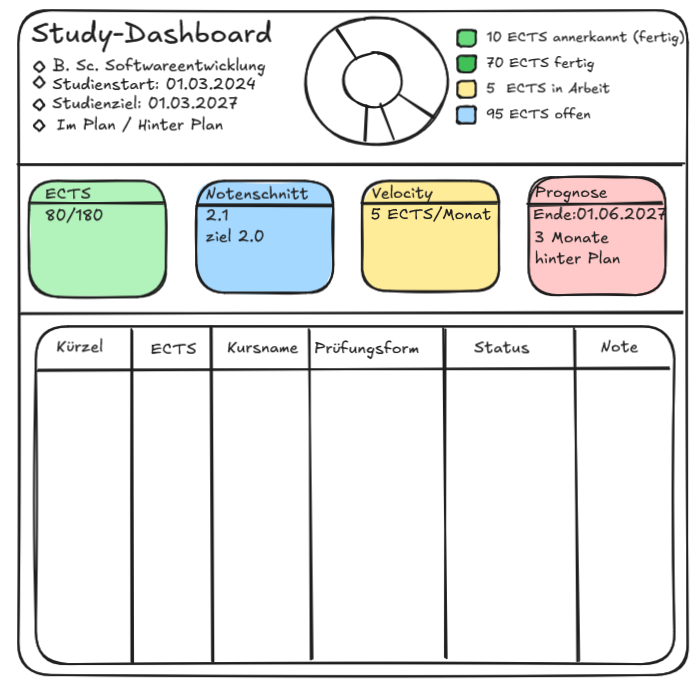
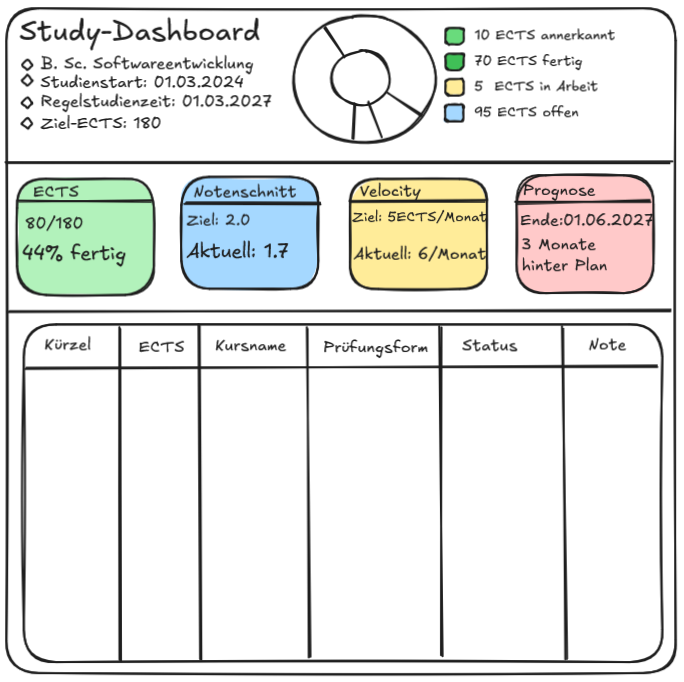
feat: wireframe update

Changed region(s): [[0.0, 0.0, 1.0, 1.0]]

diff --git a/src/gui_test.py b/src/gui_test.py
@@ -43,6 +43,24 @@ module = [
 ]
 
 
+FARBEN = {
+    "anerkannt": "#7ee08b",
+    "fertig": "#34c969",
+    "in Arbeit": "#ffe680",
+    "offen": "#a9d8f5",
+    "prognose": "#ffc3c7",
+    "rahmen": "#222222",
+    "hintergrund": "#fbfbf8",
+}
+
+ZIEL_ECTS = 180
+ZIEL_NOTENSCHNITT = "2.0"
+AKTUELLER_NOTENSCHNITT = "1.7"
+ZIEL_VELOCITY = 5
+AKTUELLE_VELOCITY = 6
+PROGNOSE_ENDE = "01.06.2027"
+
+
 def berechne_ects(status):
     summe = 0
 
@@ -53,33 +71,168 @@ def berechne_ects(status):
     return summe
 
 
-def zeichne_donut(canvas, werte, prozent_fertig):
-    gesamt = 0
+def berechne_kennzahlen():
+    ects_anerkannt = berechne_ects("anerkannt")
+    ects_fertig = berechne_ects("fertig")
+    ects_in_arbeit = berechne_ects("in Arbeit")
+    ects_offen = berechne_ects("offen")
+    ects_abgeschlossen = ects_anerkannt + ects_fertig
+    prozent_fertig = round(ects_abgeschlossen / ZIEL_ECTS * 100)
 
-    for wert in werte:
-        gesamt = gesamt + wert[1]
+    return {
+        "anerkannt": ects_anerkannt,
+        "fertig": ects_fertig,
+        "in Arbeit": ects_in_arbeit,
+        "offen": ects_offen,
+        "abgeschlossen": ects_abgeschlossen,
+        "prozent_fertig": prozent_fertig,
+    }
 
-    start_winkel = 90
+
+def zeichne_donut(canvas, werte):
+    gesamt = sum(wert[1] for wert in werte)
+    start_winkel = 120
+
+    canvas.delete("all")
 
     for name, ects, farbe in werte:
+        if gesamt == 0:
+            continue
+
         winkel = 360 * ects / gesamt
         canvas.create_arc(
-            10,
-            10,
-            170,
-            170,
+            8,
+            8,
+            148,
+            148,
             start=start_winkel,
             extent=winkel,
             fill=farbe,
-            outline="white",
+            outline=FARBEN["rahmen"],
             width=2,
         )
         start_winkel = start_winkel + winkel
 
-    # Innerer Kreis macht aus dem Kuchendiagramm ein Donutdiagramm.
-    canvas.create_oval(62, 62, 118, 118, fill="white", outline="black", width=2)
-    canvas.create_text(90, 84, text=str(prozent_fertig) + "%", font=("Arial", 14, "bold"))
-    canvas.create_text(90, 104, text="fertig", font=("Arial", 9))
+    canvas.create_oval(54, 54, 102, 102, fill=FARBEN["hintergrund"], outline=FARBEN["rahmen"], width=2)
+
+
+def erstelle_kopfbereich(parent, kennzahlen):
+    kopfbereich = tk.Frame(parent, bg=FARBEN["hintergrund"], highlightthickness=2, highlightbackground=FARBEN["rahmen"])
+    kopfbereich.pack(fill="x")
+
+    info_bereich = tk.Frame(kopfbereich, bg=FARBEN["hintergrund"], padx=14, pady=10)
+    info_bereich.grid(row=0, column=0, sticky="nsew")
+
+    tk.Label(info_bereich, text="Study-Dashboard", bg=FARBEN["hintergrund"], font=("Segoe UI", 23, "bold")).pack(anchor="w")
+
+    infos = [
+        "B. Sc. Softwareentwicklung",
+        "Studienstart: 01.03.2024",
+        "Regelstudienzeit: 01.03.2027",
+        "Ziel-ECTS: 180",
+    ]
+
+    for text in infos:
+        tk.Label(info_bereich, text="<> " + text, bg=FARBEN["hintergrund"], font=("Segoe UI", 11)).pack(anchor="w")
+
+    diagramm_bereich = tk.Frame(kopfbereich, bg=FARBEN["hintergrund"], padx=18, pady=8)
+    diagramm_bereich.grid(row=0, column=1, sticky="e")
+
+    status_werte = [
+        ("anerkannt", kennzahlen["anerkannt"], FARBEN["anerkannt"]),
+        ("fertig", kennzahlen["fertig"], FARBEN["fertig"]),
+        ("in Arbeit", kennzahlen["in Arbeit"], FARBEN["in Arbeit"]),
+        ("offen", kennzahlen["offen"], FARBEN["offen"]),
+    ]
+
+    donut = tk.Canvas(diagramm_bereich, width=156, height=156, bg=FARBEN["hintergrund"], highlightthickness=0)
+    donut.grid(row=0, column=0, padx=(0, 20))
+    zeichne_donut(donut, status_werte)
+
+    legende = tk.Frame(diagramm_bereich, bg=FARBEN["hintergrund"])
+    legende.grid(row=0, column=1, sticky="w")
+
+    for zeile, status_wert in enumerate(status_werte):
+        name, ects, farbe = status_wert
+        farbfeld = tk.Label(legende, text="  ", bg=farbe, highlightthickness=1, highlightbackground=FARBEN["rahmen"])
+        farbfeld.grid(row=zeile, column=0, padx=(0, 8), pady=4)
+        tk.Label(legende, text=f"{ects} ECTS {name}", bg=FARBEN["hintergrund"], font=("Segoe UI", 10)).grid(row=zeile, column=1, sticky="w")
+
+    kopfbereich.columnconfigure(0, weight=1)
+
+
+def erstelle_kennzahl(parent, spalte, titel, zeilen, farbe):
+    kachel = tk.Frame(parent, bg=farbe, highlightthickness=2, highlightbackground=FARBEN["rahmen"])
+    kachel.grid(row=0, column=spalte, sticky="nsew", padx=12)
+
+    titel_label = tk.Label(
+        kachel,
+        text=titel,
+        bg=farbe,
+        anchor="w",
+        padx=9,
+        pady=3,
+        font=("Segoe UI", 11, "bold"),
+        highlightthickness=1,
+        highlightbackground=FARBEN["rahmen"],
+    )
+    titel_label.pack(fill="x")
+
+    inhalt = tk.Frame(kachel, bg=farbe, padx=10, pady=10)
+    inhalt.pack(fill="both", expand=True)
+
+    for text, schrift in zeilen:
+        tk.Label(inhalt, text=text, bg=farbe, anchor="w", justify="left", font=schrift).pack(anchor="w")
+
+
+def erstelle_kennzahlenbereich(parent, kennzahlen):
+    kachel_bereich = tk.Frame(parent, bg=FARBEN["hintergrund"], pady=16)
+    kachel_bereich.pack(fill="x")
+
+    erstelle_kennzahl(
+        kachel_bereich,
+        0,
+        "ECTS",
+        [
+            (f"{kennzahlen['abgeschlossen']}/{ZIEL_ECTS}", ("Segoe UI", 13)),
+            (f"{kennzahlen['prozent_fertig']}% fertig", ("Segoe UI", 13, "bold")),
+        ],
+        "#b5f1bd",
+    )
+    erstelle_kennzahl(
+        kachel_bereich,
+        1,
+        "Notenschnitt",
+        [
+            (f"Ziel: {ZIEL_NOTENSCHNITT}", ("Segoe UI", 11)),
+            (f"Aktuell: {AKTUELLER_NOTENSCHNITT}", ("Segoe UI", 13, "bold")),
+        ],
+        FARBEN["offen"],
+    )
+    erstelle_kennzahl(
+        kachel_bereich,
+        2,
+        "Velocity",
+        [
+            (f"Ziel: {ZIEL_VELOCITY} ECTS/Monat", ("Segoe UI", 11)),
+            (f"Aktuell: {AKTUELLE_VELOCITY} ECTS/Monat", ("Segoe UI", 12, "bold")),
+        ],
+        FARBEN["in Arbeit"],
+    )
+    erstelle_kennzahl(
+        kachel_bereich,
+        3,
+        "Prognose",
+        [
+            (f"Ende: {PROGNOSE_ENDE}", ("Segoe UI", 11, "bold")),
+            ("3 Monate", ("Segoe UI", 11)),
+            ("hinter Plan", ("Segoe UI", 11)),
+        ],
+        FARBEN["prognose"],
+    )
+
+    for spalte in range(4):
+        kachel_bereich.columnconfigure(spalte, weight=1, uniform="kennzahlen")
 
 
 def sortiere_tabelle(spalte):
@@ -102,121 +255,76 @@ def sortiere_tabelle(spalte):
     sortierung_absteigend[spalte] = not sortierung_absteigend[spalte]
 
 
-fenster = tk.Tk()
-fenster.title("Studien-Dashboard Test")
-fenster.geometry("1050x760")
+def erstelle_tabelle(parent):
+    global tabelle
+    global sortierung_absteigend
 
-hauptbereich = tk.Frame(fenster, padx=18, pady=14)
+    trennlinie = tk.Frame(parent, height=3, bg=FARBEN["rahmen"])
+    trennlinie.pack(fill="x", pady=(2, 14))
+
+    tabellen_bereich = tk.Frame(parent, bg=FARBEN["hintergrund"], highlightthickness=2, highlightbackground=FARBEN["rahmen"], padx=14, pady=14)
+    tabellen_bereich.pack(fill="both", expand=True)
+
+    style = ttk.Style()
+    style.theme_use("default")
+    style.configure("Treeview", font=("Segoe UI", 10), rowheight=27, background="white", fieldbackground="white")
+    style.configure("Treeview.Heading", font=("Segoe UI", 10, "bold"), padding=6)
+
+    sortierung_absteigend = {
+        "kuerzel": False,
+        "ects": False,
+        "kursname": False,
+        "pruefungsform": False,
+        "status": False,
+        "note": False,
+    }
+
+    tabelle = ttk.Treeview(
+        tabellen_bereich,
+        columns=("kuerzel", "ects", "kursname", "pruefungsform", "status", "note"),
+        show="headings",
+        height=14,
+    )
+
+    tabelle.heading("kuerzel", text="Kuerzel", command=lambda: sortiere_tabelle("kuerzel"))
+    tabelle.heading("ects", text="ECTS", command=lambda: sortiere_tabelle("ects"))
+    tabelle.heading("kursname", text="Kursname", command=lambda: sortiere_tabelle("kursname"))
+    tabelle.heading("pruefungsform", text="Pruefungsform", command=lambda: sortiere_tabelle("pruefungsform"))
+    tabelle.heading("status", text="Status", command=lambda: sortiere_tabelle("status"))
+    tabelle.heading("note", text="Note", command=lambda: sortiere_tabelle("note"))
+
+    tabelle.column("kuerzel", width=140, anchor="w", stretch=False)
+    tabelle.column("ects", width=70, anchor="center", stretch=False)
+    tabelle.column("kursname", width=420, anchor="w", stretch=True)
+    tabelle.column("pruefungsform", width=145, anchor="w", stretch=False)
+    tabelle.column("status", width=140, anchor="w", stretch=False)
+    tabelle.column("note", width=80, anchor="center", stretch=False)
+
+    for modul in module:
+        tabelle.insert("", "end", values=modul)
+
+    scrollbar = ttk.Scrollbar(tabellen_bereich, orient="vertical", command=tabelle.yview)
+    tabelle.configure(yscrollcommand=scrollbar.set)
+
+    tabelle.grid(row=0, column=0, sticky="nsew")
+    scrollbar.grid(row=0, column=1, sticky="ns")
+
+    tabellen_bereich.rowconfigure(0, weight=1)
+    tabellen_bereich.columnconfigure(0, weight=1)
+
+
+fenster = tk.Tk()
+fenster.title("Study-Dashboard")
+fenster.geometry("980x760")
+fenster.minsize(880, 640)
+fenster.configure(bg=FARBEN["hintergrund"])
+
+hauptbereich = tk.Frame(fenster, bg=FARBEN["hintergrund"], padx=8, pady=8)
 hauptbereich.pack(fill="both", expand=True)
 
-# Oberer Bereich: links Text, rechts Donutdiagramm mit Zahlen
-kopfbereich = tk.Frame(hauptbereich, borderwidth=2, relief="solid", padx=12, pady=8)
-kopfbereich.pack(fill="x")
-
-info_bereich = tk.Frame(kopfbereich)
-info_bereich.grid(row=0, column=0, sticky="w")
-
-tk.Label(info_bereich, text="Study-Dashboard", font=("Arial", 22, "bold")).pack(anchor="w")
-tk.Label(info_bereich, text="o B. Sc. Softwareentwicklung", font=("Arial", 11)).pack(anchor="w")
-tk.Label(info_bereich, text="o Studienstart: 01.03.2024", font=("Arial", 11)).pack(anchor="w")
-tk.Label(info_bereich, text="o Studienziel: 01.03.2027", font=("Arial", 11)).pack(anchor="w")
-tk.Label(info_bereich, text="o Hinter Plan", font=("Arial", 11)).pack(anchor="w")
-
-diagramm_bereich = tk.Frame(kopfbereich)
-diagramm_bereich.grid(row=0, column=1, sticky="e", padx=(40, 0))
-
-ects_anerkannt = berechne_ects("anerkannt")
-ects_fertig = berechne_ects("fertig")
-ects_in_arbeit = berechne_ects("in Arbeit")
-ects_offen = berechne_ects("offen")
-ects_gesamt = ects_anerkannt + ects_fertig + ects_in_arbeit + ects_offen
-prozent_fertig = round((ects_anerkannt + ects_fertig) / ects_gesamt * 100)
-
-status_werte = [
-    ("anerkannt", ects_anerkannt, "#9ee6a3"),
-    ("fertig", ects_fertig, "#19b957"),
-    ("in Arbeit", ects_in_arbeit, "#ffd966"),
-    ("offen", ects_offen, "#9fd3f5"),
-]
-
-donut = tk.Canvas(diagramm_bereich, width=180, height=180)
-donut.grid(row=0, column=0, padx=10)
-zeichne_donut(donut, status_werte, prozent_fertig)
-
-legende = tk.Frame(diagramm_bereich)
-legende.grid(row=0, column=1, sticky="w")
-
-for zeile, status_wert in enumerate(status_werte):
-    name = status_wert[0]
-    ects = status_wert[1]
-    farbe = status_wert[2]
-
-    tk.Label(legende, text="  ", bg=farbe, borderwidth=1, relief="solid").grid(row=zeile, column=0, padx=6, pady=4)
-    tk.Label(legende, text=str(ects) + " ECTS " + name).grid(row=zeile, column=1, sticky="w")
-
-kopfbereich.columnconfigure(0, weight=1)
-
-# Mittlerer Bereich: Kennzahlen-Kacheln
-kachel_bereich = tk.Frame(hauptbereich)
-kachel_bereich.pack(fill="x", pady=12)
-
-kennzahlen = [
-    ("ECTS", "80/180", "#aef0b8"),
-    ("Notenschnitt", "2.1\nziel 2.0", "#9fd3f5"),
-    ("Velocity", "5 ECTS/Monat", "#ffd966"),
-    ("Prognose", "Ende: 01.06.2027\n3 Monate\nhinter Plan", "#ffc4c4"),
-]
-
-for spalte, kennzahl in enumerate(kennzahlen):
-    titel = kennzahl[0]
-    wert = kennzahl[1]
-    farbe = kennzahl[2]
-
-    kachel = tk.Frame(kachel_bereich, bg=farbe, borderwidth=2, relief="solid", padx=10, pady=8)
-    kachel.grid(row=0, column=spalte, sticky="nsew", padx=10)
-
-    tk.Label(kachel, text=titel, bg=farbe, font=("Arial", 12, "bold")).pack(anchor="w")
-    tk.Label(kachel, text=wert, bg=farbe, font=("Arial", 12), justify="left").pack(anchor="w", pady=(4, 0))
-
-    kachel_bereich.columnconfigure(spalte, weight=1)
-
-# Unterer Bereich: Modultabelle
-tabellen_bereich = tk.Frame(hauptbereich, borderwidth=2, relief="solid", padx=10, pady=10)
-tabellen_bereich.pack(fill="both", expand=True)
-
-sortierung_absteigend = {
-    "kuerzel": False,
-    "ects": False,
-    "kursname": False,
-    "pruefungsform": False,
-    "status": False,
-    "note": False,
-}
-
-tabelle = ttk.Treeview(
-    tabellen_bereich,
-    columns=("kuerzel", "ects", "kursname", "pruefungsform", "status", "note"),
-    show="headings",
-    height=15,
-)
-
-tabelle.heading("kuerzel", text="Kuerzel", command=lambda: sortiere_tabelle("kuerzel"))
-tabelle.heading("ects", text="ECTS", command=lambda: sortiere_tabelle("ects"))
-tabelle.heading("kursname", text="Kursname", command=lambda: sortiere_tabelle("kursname"))
-tabelle.heading("pruefungsform", text="Pruefungsform", command=lambda: sortiere_tabelle("pruefungsform"))
-tabelle.heading("status", text="Status", command=lambda: sortiere_tabelle("status"))
-tabelle.heading("note", text="Note", command=lambda: sortiere_tabelle("note"))
-
-tabelle.column("kuerzel", width=130)
-tabelle.column("ects", width=60)
-tabelle.column("kursname", width=420)
-tabelle.column("pruefungsform", width=130)
-tabelle.column("status", width=120)
-tabelle.column("note", width=80)
-
-for modul in module:
-    tabelle.insert("", "end", values=modul)
-
-tabelle.pack(fill="both", expand=True)
+kennzahlen = berechne_kennzahlen()
+erstelle_kopfbereich(hauptbereich, kennzahlen)
+erstelle_kennzahlenbereich(hauptbereich, kennzahlen)
+erstelle_tabelle(hauptbereich)
 
 fenster.mainloop()